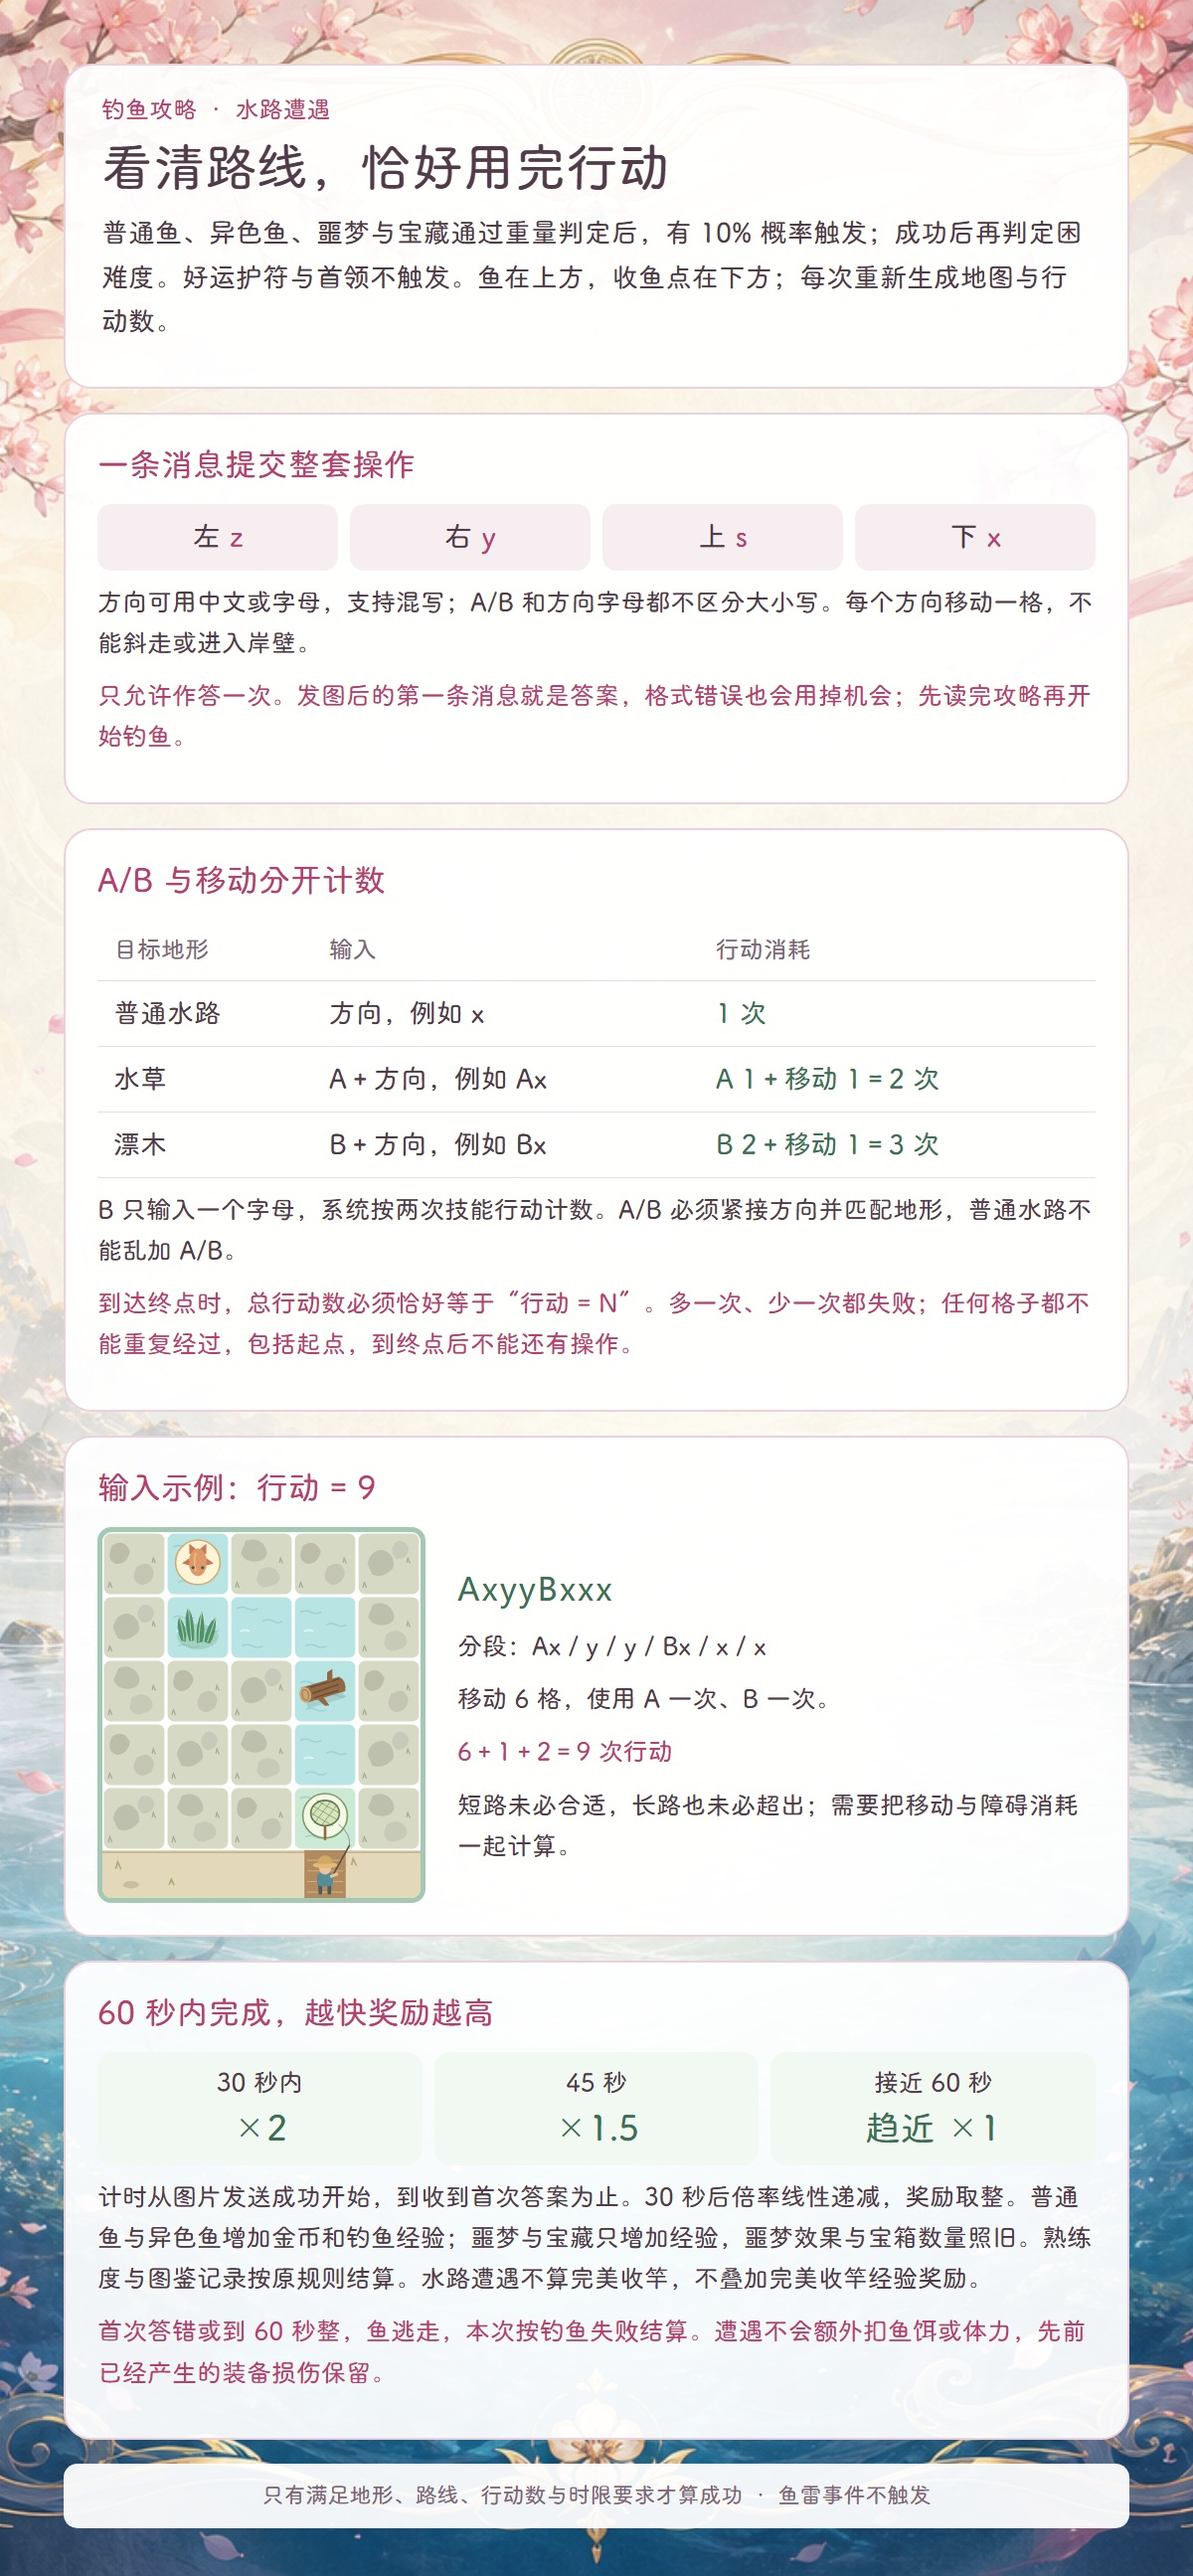
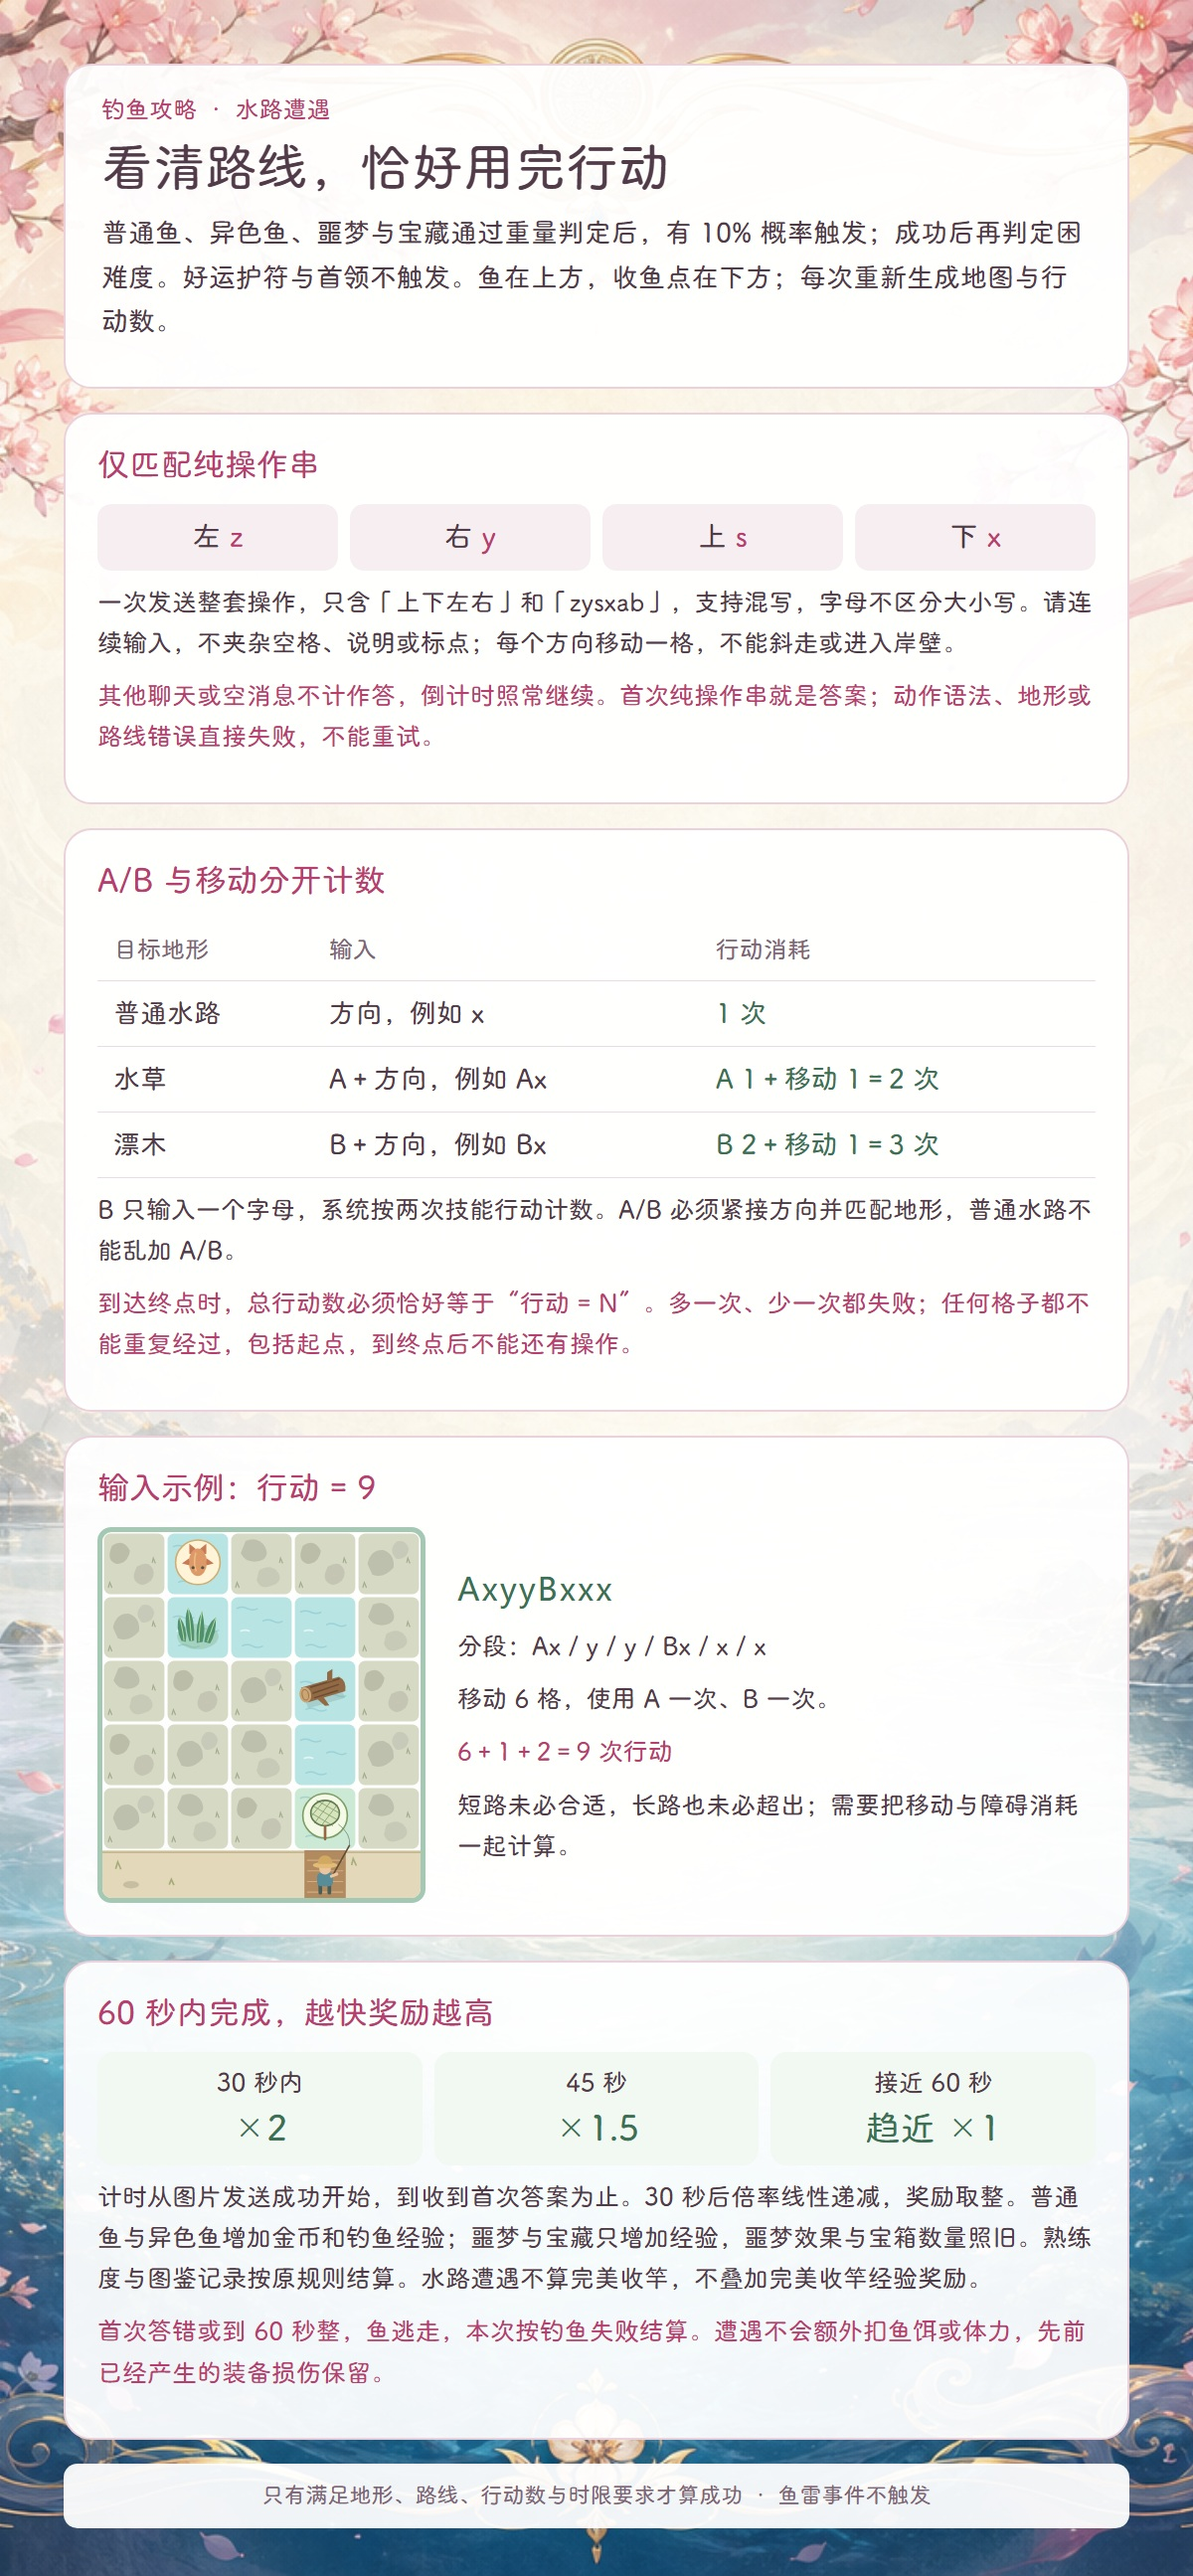
fix: 仅让纯操作串触发钓鱼遭遇作答

Changed region(s): [[0.0925, 0.2161, 0.925, 0.3088], [0.0925, 0.1544, 0.3392, 0.1853]]

diff --git a/plugins/sakura-plugin/lib/fishing/encounterGuide.js b/plugins/sakura-plugin/lib/fishing/encounterGuide.js
@@ -17,7 +17,7 @@ table{width:100%;border-collapse:collapse;font-size:27px}th,td{padding:16px;text
 .example{display:grid;grid-template-columns:330px 1fr;gap:32px;align-items:center}.example .map{width:330px;display:block;border:5px solid #a4c8b4;border-radius:14px}.code{font-family:'Microsoft YaHei',sans-serif;font-size:32px;letter-spacing:2px;color:#3b7054}.reward{display:grid;grid-template-columns:repeat(3,1fr);gap:12px}.reward div{padding:16px;background:#f2f8f2;border-radius:16px;text-align:center;font-size:25px}.reward strong{display:block;font-size:35px;color:#3b7054;margin-top:10px}.foot{font-size:22px;line-height:1.5;margin:0;text-align:center;color:#806575}
 </style></head><body><main class="guide">
 <header class="header"><div class="tag">钓鱼攻略 · 水路遭遇</div><h1>看清路线，恰好用完行动</h1><p class="lead">普通鱼、异色鱼、噩梦与宝藏通过重量判定后，有 10% 概率触发；成功后再判定困难度。好运护符与首领不触发。鱼在上方，收鱼点在下方；每次重新生成地图与行动数。</p></header>
-<section class="panel"><h2>一条消息提交整套操作</h2><div class="keys"><div class="key">左 <span>z</span></div><div class="key">右 <span>y</span></div><div class="key">上 <span>s</span></div><div class="key">下 <span>x</span></div></div><p>方向可用中文或字母，支持混写；A/B 和方向字母都不区分大小写。每个方向移动一格，不能斜走或进入岸壁。</p><p class="accent">只允许作答一次。发图后的第一条消息就是答案，格式错误也会用掉机会；先读完攻略再开始钓鱼。</p></section>
+<section class="panel"><h2>仅匹配纯操作串</h2><div class="keys"><div class="key">左 <span>z</span></div><div class="key">右 <span>y</span></div><div class="key">上 <span>s</span></div><div class="key">下 <span>x</span></div></div><p>一次发送整套操作，只含「上下左右」和「zysxab」，支持混写，字母不区分大小写。请连续输入，不夹杂空格、说明或标点；每个方向移动一格，不能斜走或进入岸壁。</p><p class="accent">其他聊天或空消息不计作答，倒计时照常继续。首次纯操作串就是答案；动作语法、地形或路线错误直接失败，不能重试。</p></section>
 <section class="panel"><h2>A/B 与移动分开计数</h2><table><thead><tr><th>目标地形</th><th>输入</th><th>行动消耗</th></tr></thead><tbody><tr><td>普通水路</td><td>方向，例如 x</td><td>1 次</td></tr><tr><td>水草</td><td>A＋方向，例如 Ax</td><td>A 1＋移动 1＝2 次</td></tr><tr><td>漂木</td><td>B＋方向，例如 Bx</td><td>B 2＋移动 1＝3 次</td></tr></tbody></table><p>B 只输入一个字母，系统按两次技能行动计数。A/B 必须紧接方向并匹配地形，普通水路不能乱加 A/B。</p><p class="accent">到达终点时，总行动数必须恰好等于“行动 = N”。多一次、少一次都失败；任何格子都不能重复经过，包括起点，到终点后不能还有操作。</p></section>
 <section class="panel"><h2>输入示例：行动 = 9</h2><div class="example">${sampleSvg}<div><p class="code">AxyyBxxx</p><p>分段：Ax / y / y / Bx / x / x</p><p>移动 6 格，使用 A 一次、B 一次。</p><p class="accent">6＋1＋2＝9 次行动</p><p>短路未必合适，长路也未必超出；需要把移动与障碍消耗一起计算。</p></div></div></section>
 <section class="panel"><h2>${ENCOUNTER_TIME_LIMIT_MS / 1000} 秒内完成，越快奖励越高</h2><div class="reward"><div>${ENCOUNTER_FULL_REWARD_MS / 1000} 秒内<strong>×2</strong></div><div>45 秒<strong>×1.5</strong></div><div>接近 60 秒<strong>趋近 ×1</strong></div></div><p>计时从图片发送成功开始，到收到首次答案为止。30 秒后倍率线性递减，奖励取整。普通鱼与异色鱼增加金币和钓鱼经验；噩梦与宝藏只增加经验，噩梦效果与宝箱数量照旧。熟练度与图鉴记录按原规则结算。水路遭遇不算完美收竿，不叠加完美收竿经验奖励。</p><p class="accent">首次答错或到 60 秒整，鱼逃走，本次按钓鱼失败结算。遭遇不会额外扣鱼饵或体力，先前已经产生的装备损伤保留。</p></section>

diff --git a/plugins/sakura-plugin/apps/fishing.js b/plugins/sakura-plugin/apps/fishing.js
@@ -17,6 +17,7 @@ import {
   ENCOUNTER_TIME_LIMIT_MS,
   applyEncounterReward,
   createEncounterAttempt,
+  isEncounterAnswerMessage,
   rollFishingEncounter,
   submitEncounterAttempt,
 } from "../lib/fishing/encounter.js";
@@ -1170,10 +1171,11 @@ export default class Fishing extends plugin {
 
     if (state.phase === FISHING_PHASE.encounterPreparing) return true;
     if (state.phase === FISHING_PHASE.encounter) {
-      // 到达时立即锁定首次消息，包含空消息、格式错误与发图回执之前的快速作答。
+      if (!isEncounterAnswerMessage(msg)) return true;
+      // 到达时只锁定首条纯操作串，聊天和空消息不会消耗机会或重置计时。
       if (!state.encounter.inputReceived) {
         state.encounter.inputReceived = true;
-        state.encounter.pendingInput = { event: e, receivedAt: Date.now() };
+        state.encounter.pendingInput = { event: e, input: msg, receivedAt: Date.now() };
         await this.runPendingEncounterInput(stateKey, state.id);
       }
       return true;
@@ -1703,12 +1705,12 @@ export default class Fishing extends plugin {
     if (!state || state.id !== sessionId || state.phase !== FISHING_PHASE.encounter ||
         !state.encounter?.attempt || !state.encounter.pendingInput ||
         !fishingSessions.claimAction(stateKey, sessionId)) return false;
-    const { event: e, receivedAt } = state.encounter.pendingInput;
+    const { event: e, input, receivedAt } = state.encounter.pendingInput;
     state.encounter.pendingInput = null;
     try {
       return await eventStorage.run(e, async () => {
         // 客户端已看到图片但发送回执尚未返回时收到的答案按 0 秒处理。
-        const result = submitEncounterAttempt(state.encounter.attempt, e.msg ?? "", Math.max(receivedAt, state.encounter.attempt.startedAt));
+        const result = submitEncounterAttempt(state.encounter.attempt, input, Math.max(receivedAt, state.encounter.attempt.startedAt));
         if (state.encounterTimer) clearTimeout(state.encounterTimer);
         state.encounterTimer = null;
         if (!result.success) {

diff --git a/plugins/sakura-plugin/lib/fishing/encounter.js b/plugins/sakura-plugin/lib/fishing/encounter.js
@@ -22,7 +22,6 @@ const DIRECTIONS = Object.freeze({
 });
 const ALIASES = Object.freeze({
   z: "左", y: "右", s: "上", x: "下",
-  "↑": "上", "↓": "下", "←": "左", "→": "右",
 });
 const TILES = new Set(["#", ".", "S", "G", "A", "B"]);
 
@@ -49,10 +48,16 @@ export function assertEncounterMap(map) {
   return { width, height: rows.length, start: starts[0], goal: goals[0] };
 }
 
+// 只将整条由操作字符组成的消息视为答案，不从聊天内容中提取方向。
+// 字符合法与动作语法分开判断：例如 abx 会进入判题并消耗唯一作答机会。
+export function isEncounterAnswerMessage(input) {
+  return typeof input === "string" && /^[上下左右zysxab]+$/iu.test(input.trim());
+}
+
 export function parseEncounterInput(input) {
-  if (typeof input !== "string") return null;
-  const normalized = input.normalize("NFKC").toLowerCase().replace(/\s/gu, "")
-    .replace(/[zysx↑↓←→]/gu, value => ALIASES[value]);
+  if (!isEncounterAnswerMessage(input)) return null;
+  const normalized = input.trim().toLowerCase()
+    .replace(/[zysx]/gu, value => ALIASES[value]);
   if (!normalized || normalized.length > 96) return null;
   const tokens = normalized.match(/[ab]?[上下左右]/gu) || [];
   if (tokens.join("") !== normalized) return null;
@@ -103,7 +108,8 @@ export function createEncounterAttempt(map, startedAt) {
 
 export function submitEncounterAttempt(attempt, input, receivedAt) {
   if (attempt.submitted) return { accepted: false, success: false, reason: "本次已经提交" };
-  // 首次输入先锁定，格式错误、错误路线和超时都不能获得第二次机会。
+  if (!isEncounterAnswerMessage(input)) return { accepted: false, success: false, reason: "非操作消息，已忽略" };
+  // 首次操作串先锁定，动作语法错误、错误路线和超时都不能获得第二次机会。
   attempt.submitted = true;
   const elapsedMs = receivedAt - attempt.startedAt;
   const multiplier = getEncounterRewardMultiplier(elapsedMs);

diff --git a/plugins/sakura-plugin/resources/fish/encounters/README.md b/plugins/sakura-plugin/resources/fish/encounters/README.md
@@ -63,13 +63,15 @@ node --test plugins/sakura-plugin/scripts/test-fishing-encounters.mjs
 
 方向可以写中文，也可以写字母：左 `z`、右 `y`、上 `s`、下 `x`。所有字母不区分大小写，可以和中文混写。A、B 也不区分大小写。
 
+只匹配整条由 `上下左右zysxab` 组成的消息，忽略首尾空白，不从说明文字里提取操作串。串中不能夹杂空格、标点或其他字符。不符合字符范围的消息不计作答，不会重置倒计时；符合字符范围但动作语法错误的消息，例如 `abx`，会进入判题并消耗机会。
+
 进入水草须使用 `A＋方向`，进入漂木须使用 `B＋方向`。例如 `az` 表示向左进入水草，`Bx` 表示向下进入漂木。动作只作用于紧接的这一步；普通水路只写方向，不能使用多余 A/B 凑数。
 
 每个方向消耗 1 次行动，A 消耗 1 次，B 消耗 2 次。普通水路一格消耗 1 次，进入水草一格消耗 2 次，进入漂木一格消耗 3 次。B 仍只输入一个字母。起点不计行动，进入收鱼点的移动计 1 次行动。A/B 没有单独配额；总行动数必须恰好等于图片下方给出的数值，多一次或少一次都失败。到达收鱼点后不能还有操作。
 
 例如 `xAxyBx` 分为 `x / Ax / y / Bx`，移动 4 格，使用 A/B 各一次，总计 7 次行动；只有地形逐步匹配且本局要求行动数为 7，才能成功。
 
-只允许提交一次，格式错误、空消息或路线错误也会消耗这次机会。图片发送成功后开始计时；30 秒内成功倍率为 2，30 秒后线性递减，45 秒成功为 1.5，接近 60 秒时趋近 1。60 秒整及之后视为失败，鱼逃走。噩梦和宝藏只增加经验；普通鱼和异色鱼增加金币与经验，奖励四舍五入。噩梦效果、宝箱数量、熟练度、图鉴记录保持原规则。
+只允许提交一次答案，首次纯操作串的动作语法或路线错误也会消耗这次机会。聊天、空消息或混入其他字符的消息会忽略。图片发送成功后开始计时；30 秒内成功倍率为 2，30 秒后线性递减，45 秒成功为 1.5，接近 60 秒时趋近 1。60 秒整及之后视为失败，鱼逃走。噩梦和宝藏只增加经验；普通鱼和异色鱼增加金币与经验，奖励四舍五入。噩梦效果、宝箱数量、熟练度、图鉴记录保持原规则。
 
 倍率公式：`t ≤ 30秒时为2；30秒 < t < 60秒时为 2 - (t - 30) / 30`。采用首次答案到达时间，后续强拉或溜鱼的时间不影响已获得的倍率。答错和超时只按一次钓鱼失败结算，不额外扣鱼饵与体力，先前装备损伤保留。生图或发图故障跳过遭遇并继续困难度判定，按原奖励结算。没有 AI 协助拦截。
 
